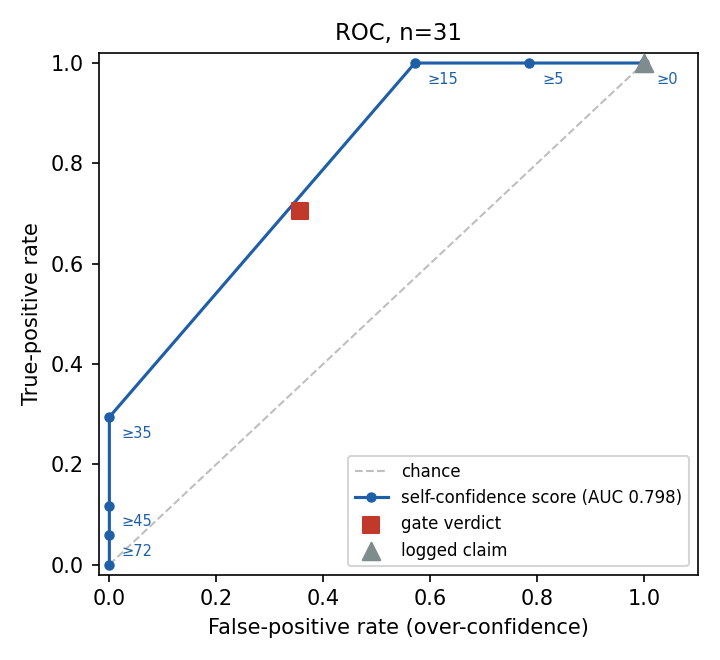
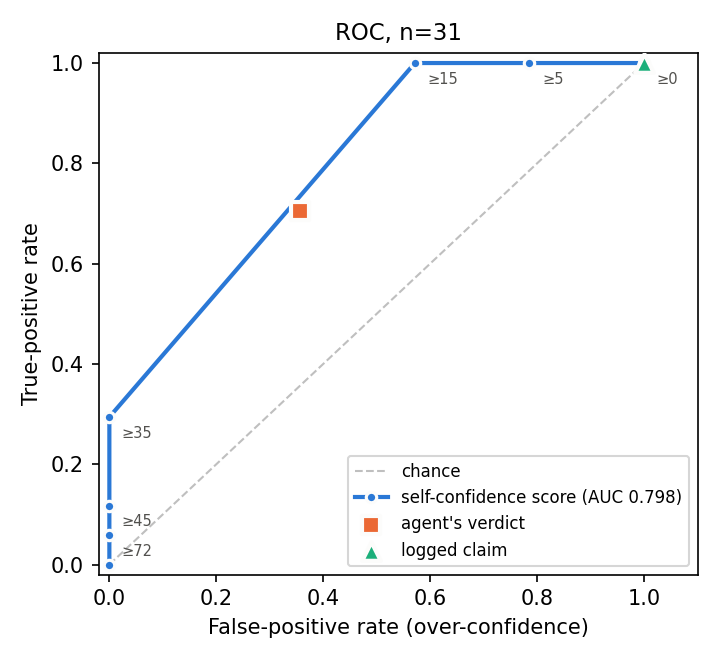
Add a summary figure of the error trade-off and use one validated palette across figures

diff --git a/src/report.py b/src/report.py
@@ -113,13 +113,71 @@ def results_table(res: dict) -> str:
     return "\n".join(lines) + "\n"
 
 
+# Validated categorical slots (light surface), one per decision rule.
+SURFACE = "#fcfcfb"
+INK, INK_2, GRID = "#0b0b0b", "#52514e", "#e6e5e1"
+C_CONF, C_GATE, C_CLAIM = "#2a78d6", "#eb6834", "#1baf7a"
+
+
+def _style(ax) -> None:
+    ax.set_facecolor(SURFACE)
+    ax.grid(color=GRID, lw=1)
+    ax.set_axisbelow(True)
+    for side in ("top", "right"):
+        ax.spines[side].set_visible(False)
+    for side in ("left", "bottom"):
+        ax.spines[side].set_color(GRID)
+    ax.tick_params(colors=INK_2, labelsize=9)
+
+
+def plot_tradeoff(res: dict, out_dir: Path, meta: dict) -> None:
+    """The summary figure: false 'done' vs false 'failed' for every decision rule."""
+    import matplotlib.pyplot as plt
+
+    g, c, p = res["gate_decision"], res["logged_claim"], res["proxy_a"]
+    pts = [pt for pt in p["roc"] if pt["threshold"] != "inf"]
+    fig, ax = plt.subplots(figsize=(6.4, 4.4), dpi=160, facecolor=SURFACE)
+    _style(ax)
+    ring = {"edgecolor": SURFACE, "linewidth": 2, "zorder": 3}
+    ax.plot([pt["FP"] for pt in pts], [pt["FN"] for pt in pts], color=C_CONF, lw=2, zorder=2)
+    ax.scatter([pt["FP"] for pt in pts], [pt["FN"] for pt in pts], s=70, color=C_CONF, marker="o",
+               label="Accept if self-confidence ≥ t", **ring)
+    for pt in pts:
+        ax.annotate(f"t={pt['threshold']:.0f}", (pt["FP"], pt["FN"]), textcoords="offset points",
+                    xytext=(7, 4), fontsize=8, color=INK_2)
+    ax.scatter([g["FP"]], [g["FN"]], s=110, color=C_GATE, marker="s", label="Agent's own verdict", **ring)
+    ax.annotate("agent's verdict", (g["FP"], g["FN"]), textcoords="offset points", xytext=(9, 6),
+                fontsize=9, color=INK, fontweight="bold")
+    ax.scatter([c["FP"]], [c["FN"]], s=130, color=C_CLAIM, marker="^", label="Logged claim field", **ring)
+    ax.annotate("logged claim", (c["FP"], c["FN"]), textcoords="offset points", xytext=(0, 22),
+                fontsize=9, color=INK, ha="center", fontweight="bold")
+    ax.scatter([0], [0], s=60, facecolor="none", edgecolor=INK_2, lw=1.2, zorder=3)
+    ax.annotate("ideal: no errors", (0, 0), textcoords="offset points", xytext=(8, 6), fontsize=8,
+                color=INK_2, style="italic")
+    n_fail, n_succ = res["data"]["world_state_failures"], res["data"]["world_state_successes"]
+    ax.set_xlim(-0.8, n_fail + 0.8)
+    ax.set_ylim(-0.8, n_succ + 0.8)
+    ax.set_xticks(range(0, n_fail + 1, 2))
+    ax.set_yticks(range(0, n_succ + 1, 2))
+    ax.set_xlabel(f"False “done”: failures reported as success (of {n_fail})", color=INK, fontsize=10)
+    ax.set_ylabel(f"False “failed”: successes reported\nas failures (of {n_succ})", color=INK,
+                  fontsize=10)
+    ax.set_title("Every decision rule trades one error for the other", loc="left", color=INK,
+                 fontsize=12, fontweight="bold")
+    ax.legend(loc="upper right", fontsize=8, frameon=False, labelcolor=INK_2)
+    fig.tight_layout()
+    fig.savefig(out_dir / "tradeoff.png", metadata=meta, facecolor=SURFACE)
+    plt.close(fig)
+
+
 def plot(res: dict, out_dir: Path) -> None:
-    """Write confusion_matrix.png and roc_curve.png into out_dir."""
+    """Write tradeoff.png, confusion_matrix.png and roc_curve.png into out_dir."""
     import matplotlib
     matplotlib.use("Agg")
     import matplotlib.pyplot as plt
 
     meta = {"Software": None}  # no version stamp, so reruns give identical bytes
+    plot_tradeoff(res, out_dir, meta)
     g = res["gate_decision"]
     fig, ax = plt.subplots(figsize=(4.6, 4.0), dpi=150)
     cells = np.array([[g["TP"], g["FN"]], [g["FP"], g["TN"]]])
@@ -138,17 +196,17 @@ def plot(res: dict, out_dir: Path) -> None:
     p = res["proxy_a"]
     fig, ax = plt.subplots(figsize=(4.8, 4.4), dpi=150)
     ax.plot([0, 1], [0, 1], color="0.75", lw=1, ls="--", label="chance")
-    ax.plot([pt["fpr"] for pt in p["roc"]], [pt["tpr"] for pt in p["roc"]], marker="o", ms=4,
-            color="#1f5fa8", label=f"self-confidence score (AUC {p['auc']:.3f})")
+    ax.plot([pt["fpr"] for pt in p["roc"]], [pt["tpr"] for pt in p["roc"]], marker="o", ms=5, lw=2,
+            color=C_CONF, mec=SURFACE, mew=1.5, label=f"self-confidence score (AUC {p['auc']:.3f})")
     for pt in p["roc"]:
         if pt["threshold"] != "inf":
             ax.annotate(f"≥{pt['threshold']:.0f}", (pt["fpr"], pt["tpr"]),
-                        textcoords="offset points", xytext=(6, -10), fontsize=7, color="#1f5fa8")
+                        textcoords="offset points", xytext=(6, -10), fontsize=7, color=INK_2)
     gd, lc = res["gate_decision"], res["logged_claim"]
-    ax.scatter([gd["false_positive_rate"]], [gd["recall"]], marker="s", s=60, color="#c0392b",
-               zorder=3, label="gate verdict")
-    ax.scatter([lc["false_positive_rate"]], [lc["recall"]], marker="^", s=70, color="#7f8c8d",
-               zorder=3, label="logged claim")
+    ax.scatter([gd["false_positive_rate"]], [gd["recall"]], marker="s", s=70, color=C_GATE,
+               edgecolor=SURFACE, linewidth=2, zorder=3, label="agent's verdict")
+    ax.scatter([lc["false_positive_rate"]], [lc["recall"]], marker="^", s=80, color=C_CLAIM,
+               edgecolor=SURFACE, linewidth=2, zorder=3, label="logged claim")
     ax.set_xlabel("False-positive rate (over-confidence)")
     ax.set_ylabel("True-positive rate")
     ax.set_xlim(-0.02, 1.1)
